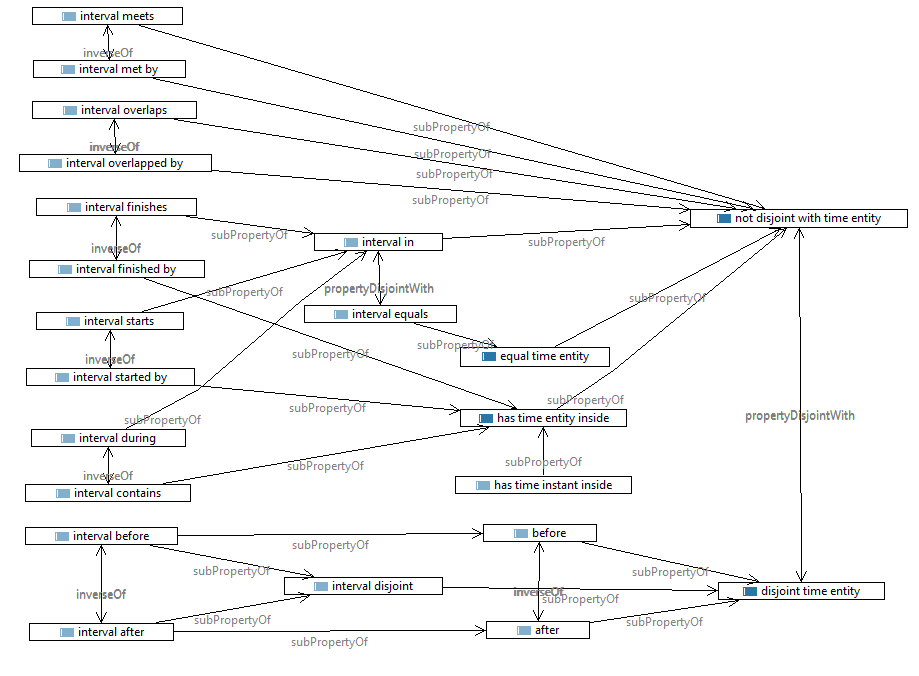
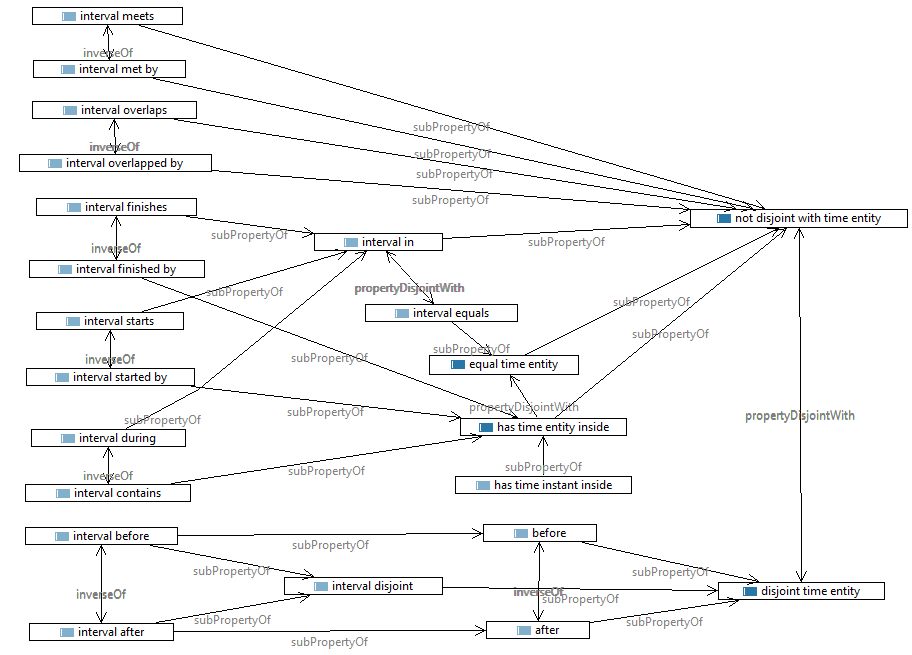
Add IANA Considerations, and examples

diff --git a/proposals/time-entity-relations/index.html b/proposals/time-entity-relations/index.html
@@ -72,8 +72,13 @@
         <code>time:intervalStarts</code>, <code>time:intervalStartedBy</code>
       </li>
     </ul>
-    <p>A summary of the semantics of the intervals relationships is provided in <a
-        href="https://www.w3.org/TR/owl-time/#topology">OWL-Time Figure 2</a>. </p>
+    <p>A summary of the semantics of the intervals relationships is shown in <a href="#fig-allen-relations"></a>.</p>
+
+    <figure id="fig-allen-relations">
+      <img alt="Allen's primitive relations between intervals" src="https://www.w3.org/TR/owl-time/images/IntervalRelations.png" style="width:90%"/>
+      <figcaption>Allen's relations between temporal intervals. Figure from [[owl-time]].</figcaption>
+    </figure>  
+    </p>
     <p>
       In principle, any relationship between temporal entities can be built up through logical combination of
       members of these primitive relations.
@@ -203,8 +208,7 @@
             <tr>
               <td>Definition:</td>
               <td>If a temporal entity T1 is disjoint with another temporal entity T2, then the beginning of T1 is after
-                the end of T2, or the end of T1 is before the beginning of T2, and the beginning of T1 may be coincident
-                with the end of T1, and the beginning of T2 may be coincident with the end of T2, i.e. the two entities
+                the end of T2, or the end of T1 is before the beginning of T2, i.e. the two entities
                 do not overlap or coincide in any way, but their ordering relationship is not known.</td>
             </tr>
             <tr>
@@ -340,6 +344,7 @@
             <tr>
               <td>Additional axioms:</td>
               <td>
+                <code>time:hasInside owl:propertyDisjointWith time:equals .</code><br />
                 <code>time:inside rdfs:subPropertyOf time:hasInside .</code><br />
                 <code>time:intervalStartedBy rdfs:subPropertyOf time:hasInside .</code><br />
                 <code>time:intervalContains rdfs:subPropertyOf time:hasInside .</code><br />
@@ -355,7 +360,7 @@
       </section>
 
       <section>
-        <h4 id="time:notDisjoint">not disjoint with time entity</h4>
+        <h4 id="time:notDisjoint">not disjoint time entity</h4>
         <table class="definition" style="width: 100%;">
           <thead>
             <tr>
@@ -372,9 +377,9 @@
             </tr>
             <tr>
               <td>Definition:</td>
-              <td>If a temporal entity T1 is notDisjoint with another temporal entity T2, then the the two entities not
+              <td>If a temporal entity T1 is notDisjoint with another temporal entity T2, then the the two entities 
                 overlap or coincide in some way, but their ordering relationship is not known. This relation is the
-                complement of disjoint and the union of equals, hasInside, in, meets, metBy, overlaps, overlappedBy.
+                complement of disjoint and is the union of equals, hasInside, in, meets, metBy, overlaps, overlappedBy.
               </td>
             </tr>
             <tr>
@@ -416,12 +421,75 @@
     </section>
   </section>
 
-  <section>
+  <section id="examples">
     <h2>Examples</h2>
-    <p>
-      TBD
-    </p>
+    <p>Jack's wedding concides with Abby's birthday in 2020.</p>
+    <aside id="ex-jack" class="example">
+      <pre class="nohighlight turtle">
+      ex:JackWeddingDay time:equals ex:AbbyBirthday2020 . 
+      </pre>
+    </aside>
+    <p>You can't sleep and eat at the same time, but you could take a nap in the morning or afternoon.</p>
+    <aside id="ex-lunch" class="example">
+      <pre class="nohighlight turtle">
+      ex:LunchTime time:disjoint ex:NapTime . 
+    </pre>
+  </aside>
+  <p>A quiz will occur at some point during the class.</p>
+  <aside id="ex-lunch" class="example">
+    <pre class="nohighlight turtle">
+      ex:Class time:hasInside ex:Quiz . 
+    </pre>
+    </aside>
   </section>
+
+  <section id="iana">
+    <h2>IANA Considerations</h2>
+    <p>The link relation types below have been registered by IANA per Section 6.2.1 of [[RFC8288]]:</p>
+
+    <section id="link-time-disjoint">
+      <h3>timeDisjoint Link Relation Type</h3>
+      <dt>Relation name</dt>
+      <dd>timeDisjoint</dd>
+      <dt>Description</dt>
+      <dd>refers to a resource associated with a time entity that begins after the end of the time entity associated with the context resource, or ends before the beginning of the time entity associated with the context resource, i.e. the two entities do not overlap or coincide in any way, but their ordering relationship is not known.</dd>
+      <dt>Reference</dt>
+      <dd><a href="#time:disjoint">Extensions to the OWL-Time Ontology - entity relations, section 4.1.1</a></dd>
+    </section>
+
+    <section id="link-time-equals">
+      <h3>timeEquals Link Relation Type</h3>
+      <dt>Relation name</dt>
+      <dd>timeEquals</dd>
+      <dt>Description</dt>
+      <dd>refers to a resource associated with a time entity that begins at the beginning of the time entity associated with the context resource, and ends at the end of the time entity associated with the context resource, i.e. the two entities coincide temporally. The beginning and end may coincide. </dd>
+      <dt>Reference</dt>
+      <dd><a href="#time:equals">Extensions to the OWL-Time Ontology - entity relations, section 4.1.2</a></dd>
+    </section>
+
+    <section id="link-time-has-inside">
+      <h3>timeHasInside Link Relation Type</h3>
+      <dt>Relation name</dt>
+      <dd>timeHasInside</dd>
+      <dt>Description</dt>
+      <dd>refers to a resource associated with a time entity that begins after or coincident with the beginning of the time entity associated with the context resource, and ends before or coincident with the end of the time entity associated with the context resource, except that the end may not be coincident with the end of the context resource if the beginning is coincident with the beginning of the context resource.</dd>
+      <dt>Reference</dt>
+      <dd><a href="#time:hasInside">Extensions to the OWL-Time Ontology - entity relations, section 4.1.3</a></dd>
+    </section>
+
+    <section id="link-time-not-disjoint">
+      <h3>timeNotDisjoint Link Relation Type</h3>
+      <dt>Relation name</dt>
+      <dd>timeNotDisjoint</dd>
+      <dt>Description</dt>
+      <dd>refers to a resource associated with a time entity that overlaps or coincides with the time entity associated with the context resource in some way, but their ordering relationship is not known.</dd>
+      <dt>Reference</dt>
+      <dd><a href="#time:notDisjoint">Extensions to the OWL-Time Ontology - entity relations, section 4.1.4</a></dd>
+    </section>
+
+  </section>
+
+
 
 
   </section>
